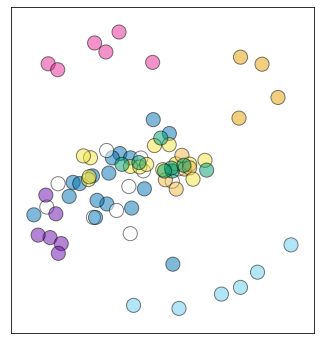
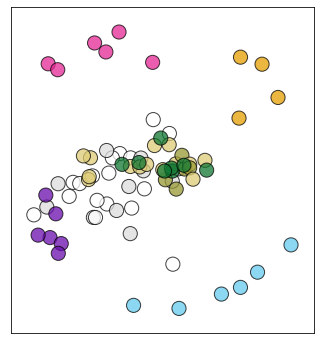
improve Altair interactive MDS plot

diff --git a/results/summary/mds_escape_profiles.md b/results/summary/mds_escape_profiles.md
@@ -314,15 +314,22 @@ for name, specs in mds_config.items():
     plt.show(fig)
     plt.close(fig)
     
-    # make Altair versions for one specific plot
-    if name != 'Moderna_HAARVI_mAbs':
+    # make Altair versions for one specific plot (hard-coded!)
+    if name != 'Moderna_HAARVI_mAbs_more_colors':
         continue
-    color_to_class = {'#000000': 'vaccine sera',
-                      '#66CCEE': 'class 3 antibody',
-                      '#6a0dad': 'class 2 antibody',
-                      '#E52794': 'class 1 antibody',
-                      '#E69F00': 'class 4 antibody',
-                      '#FFFFFF': 'convalescent plasma'}
+    #df.set_index('id').to_dict()
+    color_df = (pd.read_csv('./data/mds_colors_vax_conv.csv')
+                [['detailed_group', 'detailed_color']]
+                .drop_duplicates()
+               )
+    color_to_class = color_df.set_index('detailed_color')['detailed_group'].to_dict()
+    print(color_to_class)
+#     color_to_class = {'#000000': 'vaccine sera',
+#                       '#66CCEE': 'class 3 antibody',
+#                       '#6a0dad': 'class 2 antibody',
+#                       '#E52794': 'class 1 antibody',
+#                       '#E69F00': 'class 4 antibody',
+#                       '#FFFFFF': 'convalescent plasma'}
     class_to_color = {val: key for key, val in color_to_class.items()}
     alt_df = pd.DataFrame({'x': xs,
                            'y': ys,
@@ -350,9 +357,9 @@ for name, specs in mds_config.items():
                                 ),
                 tooltip=['antibody / sera', 'class'],
                 )
-        .mark_circle(size=100,
+        .mark_circle(size=200,
                      stroke='black',
-                     opacity=0.6,
+                     opacity=0.75,
                      )
         .properties(width=400,
                     height=400)
@@ -378,17 +385,31 @@ for name, specs in mds_config.items():
     
 
 
-    Saving interactive chart to results/multidimensional_scaling/Moderna_HAARVI_mAbs_mds.html
+    
+    Making plot Moderna_HAARVI_mAbs_more_colors, which has the following antibodies:
+    ['M01-day-119_80', 'M02-day-36_1250', 'M02-day-119_200', 'M03-day-119_200', 'M04-day-119_200', 'M05-day-36_500', 'M05-day-119_500', 'M06-day-119_80', 'M07-day-119_200', 'M08-day-36_1250', 'M08-day-119_200', 'M09-day-119_500', 'M10-day-36_500', 'M10-day-119_200', 'M11-day-119_200', 'M12-day-36_1250', 'M12-day-119_200', 'M13-day-119_200', 'M14-day-119_500', 'M16-day-119_1250', 'M17-day-119_200', 'M18-day-119_80', 'M19-day-119_200', 'M20-day-119_200', 'M21-day-119_200', 'M22-day-119_200', 'M23-day-119_200', '23_d21_1250', '23_d45_1250', '23_d120_500', '1C_d26_200', '1C_d113_200', '24C_d32_200', '24C_d104_200', '6C_d33_500', '6C_d76_500', '22C_d28_200', '22C_d104_200', '25C_d48_200', '25C_d115_80', '25_d18_500', '25_d94_200', '12C_d61_160', '12C_d152_80', '23C_d26_80', '23C_d102_80', '13_d15_200', '13_d121_1250', '7C_d29_500', '7C_d103_200', 'COV-021_500', 'COV-047_200', 'COV-057_50', 'COV-072_200', 'COV-107_80', 'CB6_400', 'LY-CoV555_400', 'REGN10933_400', 'REGN10987_400', 'CR3022_400', 'COV2-2677_400', 'COV2-2082_400', 'COV2-2094_400', 'COV2-2165_400', 'COV2-2832_400', 'COV2-2479_400', 'COV2-2050_400', 'COV2-2096_400', 'COV2-2499_400', 'C105_400', 'C144_400', 'C002_400', 'C121_400', 'C135_400', 'C110_400', 'COV2-2196_400', 'COV2-2130_400']
+    Using condition-level color scheme in column detailed_color of data/mds_colors_vax_conv.csv
+    Saving plot to results/multidimensional_scaling/Moderna_HAARVI_mAbs_more_colors_mds.pdf
+
+
+
+    
+![png](mds_escape_profiles_files/mds_escape_profiles_18_3.png)
+    
+
+
+    {'#DDCC77': 'vaccine serum (250ug day 119)', '#999933': 'vaccine serum (250ug day 36)', '#117733': 'vaccine serum (100ug day 119)', '#FFFFFF': 'convalescent plasma (day 30-60)', '#DDDDDD': 'convalescent plasma (day 100-150)', '#E52794': 'class 1 antibody', '#6a0dad': 'class 2 antibody', '#66CCEE': 'class 3 antibody', '#E69F00': 'class 4 antibody'}
+    Saving interactive chart to results/multidimensional_scaling/Moderna_HAARVI_mAbs_more_colors_mds.html
 
 
 
 
-<div id="altair-viz-215bc0b73fd94fcf8ceeb1de61f2f538"></div>
+<div id="altair-viz-3923bb73f19c414b9d7daf3a4b7712cb"></div>
 <script type="text/javascript">
   (function(spec, embedOpt){
     let outputDiv = document.currentScript.previousElementSibling;
-    if (outputDiv.id !== "altair-viz-215bc0b73fd94fcf8ceeb1de61f2f538") {
-      outputDiv = document.getElementById("altair-viz-215bc0b73fd94fcf8ceeb1de61f2f538");
+    if (outputDiv.id !== "altair-viz-3923bb73f19c414b9d7daf3a4b7712cb") {
+      outputDiv = document.getElementById("altair-viz-3923bb73f19c414b9d7daf3a4b7712cb");
     }
     const paths = {
       "vega": "https://cdn.jsdelivr.net/npm//vega@5?noext",
@@ -430,21 +451,8 @@ for name, specs in mds_config.items():
         .catch(showError)
         .then(() => displayChart(vegaEmbed));
     }
-  })({"config": {"view": {"continuousWidth": 400, "continuousHeight": 300, "stroke": "black", "strokeWidth": 1}}, "data": {"name": "data-ee61cd32dc635e6d5446525c4ff0e1f4"}, "mark": {"type": "circle", "opacity": 0.6, "size": 100, "stroke": "black"}, "encoding": {"color": {"type": "nominal", "field": "class", "scale": {"range": ["#E52794", "#6a0dad", "#66CCEE", "#E69F00", "#FFFFFF", "#000000"]}}, "tooltip": [{"type": "nominal", "field": "antibody / sera"}, {"type": "nominal", "field": "class"}], "x": {"type": "quantitative", "axis": {"grid": false, "labels": false, "ticks": false, "title": null}, "field": "x"}, "y": {"type": "quantitative", "axis": {"grid": false, "labels": false, "ticks": false, "title": null}, "field": "y"}}, "height": 400, "width": 400, "$schema": "https://vega.github.io/schema/vega-lite/v4.8.1.json", "datasets": {"data-ee61cd32dc635e6d5446525c4ff0e1f4": [{"x": -0.03986632910633704, "y": -0.2834240393389698, "antibody / sera": "subject H (day 152)", "class": "convalescent plasma"}, {"x": -0.03321102379001797, "y": -0.16142343536787238, "antibody / sera": "subject H (day 61)", "class": "convalescent plasma"}, {"x": 0.16066049598044355, "y": -0.03334249507451495, "antibody / sera": "subject J (day 121)", "class": "convalescent plasma"}, {"x": 0.14682897906393716, "y": 0.19440717161258741, "antibody / sera": "subject J (day 15)", "class": "convalescent plasma"}, {"x": -0.04665356006446851, "y": -0.05846997855766021, "antibody / sera": "subject B (day 113)", "class": "convalescent plasma"}, {"x": -0.22012230086862694, "y": -0.007991552874154836, "antibody / sera": "subject B (day 26)", "class": "convalescent plasma"}, {"x": -0.43808896810808695, "y": -0.1565237554388361, "antibody / sera": "subject E (day 104)", "class": "convalescent plasma"}, {"x": -0.15171604601964986, "y": -0.1418199843603223, "antibody / sera": "subject E (day 28)", "class": "convalescent plasma"}, {"x": -0.21576150782364661, "y": -0.20596969968026524, "antibody / sera": "subject I (day 102)", "class": "convalescent plasma"}, {"x": -0.20572250714497778, "y": -0.20635203240130465, "antibody / sera": "subject I (day 26)", "class": "convalescent plasma"}, {"x": 0.02298664610534081, "y": 0.016334926342672543, "antibody / sera": "subject A (day 120)", "class": "convalescent plasma"}, {"x": -0.08959821241546158, "y": 0.09855428481871517, "antibody / sera": "subject A (day 21)", "class": "convalescent plasma"}, {"x": -0.038431410392108574, "y": 0.07819630816084515, "antibody / sera": "subject A (day 45)", "class": "convalescent plasma"}, {"x": -0.3842211484022715, "y": -0.045241007071251824, "antibody / sera": "subject C (day 104)", "class": "convalescent plasma"}, {"x": -0.5000126170483079, "y": -0.19371728270933142, "antibody / sera": "subject C (day 32)", "class": "convalescent plasma"}, {"x": -0.1052379579987309, "y": -0.1728851448081848, "antibody / sera": "subject F (day 115)", "class": "convalescent plasma"}, {"x": -0.31270984620458114, "y": -0.0386782409172238, "antibody / sera": "subject F (day 48)", "class": "convalescent plasma"}, {"x": 0.16344775612841414, "y": -0.4292491762007971, "antibody / sera": "subject G (day 18)", "class": "convalescent plasma"}, {"x": 0.18889578786599467, "y": 0.025841264714497596, "antibody / sera": "subject G (day 94)", "class": "convalescent plasma"}, {"x": -0.12537194731691892, "y": 0.07812244057270182, "antibody / sera": "subject D (day 33)", "class": "convalescent plasma"}, {"x": 0.01086728110953954, "y": 0.07743845247711816, "antibody / sera": "subject D (day 76)", "class": "convalescent plasma"}, {"x": -0.1526773973461746, "y": 0.11334115739258477, "antibody / sera": "subject K (day 103)", "class": "convalescent plasma"}, {"x": 0.06982659296641441, "y": 0.2606990780111509, "antibody / sera": "subject K (day 29)", "class": "convalescent plasma"}, {"x": -0.3949862384246651, "y": -0.1889191815777102, "antibody / sera": "C002", "class": "class 2 antibody"}, {"x": -0.21011770256001705, "y": 0.6265589198872832, "antibody / sera": "C105", "class": "class 1 antibody"}, {"x": 0.19270768886087572, "y": -0.6403750084402929, "antibody / sera": "C110", "class": "class 3 antibody"}, {"x": -0.4226923511466742, "y": -0.3022764818902147, "antibody / sera": "C121", "class": "class 2 antibody"}, {"x": 0.7273476812584333, "y": -0.3370986084124763, "antibody / sera": "C135", "class": "class 3 antibody"}, {"x": -0.4428396134363275, "y": -0.09950580597360711, "antibody / sera": "C144", "class": "class 2 antibody"}, {"x": -0.15615304683503087, "y": 0.5836225673533794, "antibody / sera": "LY-CoV016", "class": "class 1 antibody"}, {"x": -0.1982695813105976, "y": -0.12466175198128877, "antibody / sera": "COV-021", "class": "convalescent plasma"}, {"x": -0.2812125248180074, "y": -0.04450911954202017, "antibody / sera": "COV-047", "class": "convalescent plasma"}, {"x": -0.33145731281693863, "y": -0.1056703811355667, "antibody / sera": "COV-057", "class": "convalescent plasma"}, {"x": -0.14205802788768632, "y": 0.005444728769084952, "antibody / sera": "COV-072", "class": "convalescent plasma"}, {"x": 0.027552795016735313, "y": -0.06955592330702681, "antibody / sera": "COV-107", "class": "convalescent plasma"}, {"x": -0.4797208070517162, "y": -0.2904860456707257, "antibody / sera": "COV2-2050", "class": "class 2 antibody"}, {"x": 0.4863057436200315, "y": 0.5588025548186991, "antibody / sera": "COV2-2082", "class": "class 4 antibody"}, {"x": 0.5891078987105037, "y": 0.5252331454884698, "antibody / sera": "COV2-2094", "class": "class 4 antibody"}, {"x": -0.024032702051660883, "y": -0.6257119250617433, "antibody / sera": "COV2-2096", "class": "class 3 antibody"}, {"x": 0.5675224218642329, "y": -0.46737462107926525, "antibody / sera": "COV2-2130", "class": "class 3 antibody"}, {"x": 0.06695123855575204, "y": 0.5339576863500118, "antibody / sera": "COV2-2165", "class": "class 1 antibody"}, {"x": -0.0934125828234101, "y": 0.678805399101716, "antibody / sera": "COV2-2196", "class": "class 1 antibody"}, {"x": -0.3692627267494232, "y": -0.3309452755171947, "antibody / sera": "COV2-2479", "class": "class 2 antibody"}, {"x": 0.3951811802110181, "y": -0.5718802303825791, "antibody / sera": "COV2-2499", "class": "class 3 antibody"}, {"x": 0.6653244939788463, "y": 0.3664479031204229, "antibody / sera": "COV2-2677", "class": "class 4 antibody"}, {"x": -0.4316294312679841, "y": 0.5271898018597563, "antibody / sera": "COV2-2832", "class": "class 1 antibody"}, {"x": 0.47917732233761423, "y": 0.2679053833724255, "antibody / sera": "CR3022", "class": "class 4 antibody"}, {"x": -0.383183969852771, "y": -0.37747144898455876, "antibody / sera": "LY-CoV555", "class": "class 2 antibody"}, {"x": -0.03898783125797423, "y": 0.03700593559858729, "antibody / sera": "M01 (day 119)", "class": "vaccine sera"}, {"x": 0.0056882534115529175, "y": 0.034827094661703355, "antibody / sera": "M02 (day 119)", "class": "vaccine sera"}, {"x": 0.1278257451247425, "y": -0.026389442739785926, "antibody / sera": "M02 (day 36)", "class": "vaccine sera"}, {"x": 0.14590631940634882, "y": 0.14099129474971472, "antibody / sera": "M03 (day 119)", "class": "vaccine sera"}, {"x": 0.17802589439196917, "y": 0.049594181110379165, "antibody / sera": "M04 (day 119)", "class": "vaccine sera"}, {"x": -0.22969643697359748, "y": 0.07868080809722389, "antibody / sera": "M05 (day 119)", "class": "vaccine sera"}, {"x": 0.21965054048717228, "y": 0.024931232318086135, "antibody / sera": "M05 (day 36)", "class": "vaccine sera"}, {"x": -0.26343253904849484, "y": 0.08756779979790569, "antibody / sera": "M06 (day 119)", "class": "vaccine sera"}, {"x": 0.038451712266843276, "y": 0.046949161629994296, "antibody / sera": "M07 (day 119)", "class": "vaccine sera"}, {"x": 0.0756785088629505, "y": 0.13696143865490612, "antibody / sera": "M08 (day 119)", "class": "vaccine sera"}, {"x": 0.206787931237728, "y": 0.09033083438268409, "antibody / sera": "M08 (day 36)", "class": "vaccine sera"}, {"x": 0.11527756498850589, "y": 0.02201171743427806, "antibody / sera": "M09 (day 119)", "class": "vaccine sera"}, {"x": -0.23918492378752623, "y": -0.025469933331090662, "antibody / sera": "M10 (day 119)", "class": "vaccine sera"}, {"x": 0.17951855963315708, "y": -0.07083029204565332, "antibody / sera": "M10 (day 36)", "class": "vaccine sera"}, {"x": -0.23564399762522567, "y": -0.011702133940489698, "antibody / sera": "M11 (day 119)", "class": "vaccine sera"}, {"x": 0.2440027496823892, "y": 0.04826422507407195, "antibody / sera": "M12 (day 119)", "class": "vaccine sera"}, {"x": 0.24363791517876673, "y": 0.03062392556612426, "antibody / sera": "M12 (day 36)", "class": "vaccine sera"}, {"x": 0.2595664347816777, "y": -0.023498034496547783, "antibody / sera": "M13 (day 119)", "class": "vaccine sera"}, {"x": 0.3167178957186622, "y": 0.06640037233796543, "antibody / sera": "M14 (day 119)", "class": "vaccine sera"}, {"x": 0.16079780713962233, "y": 0.015251477659026305, "antibody / sera": "M16 (day 119)", "class": "vaccine sera"}, {"x": 0.1563462602592982, "y": 0.029518086965779344, "antibody / sera": "M17 (day 119)", "class": "vaccine sera"}, {"x": 0.10573541772793354, "y": 0.1728030516603547, "antibody / sera": "M18 (day 119)", "class": "vaccine sera"}, {"x": 0.0014925411424666368, "y": 0.05585130776733478, "antibody / sera": "M19 (day 119)", "class": "vaccine sera"}, {"x": 0.12358427739357074, "y": 0.01524332625030942, "antibody / sera": "M20 (day 119)", "class": "vaccine sera"}, {"x": -0.07918665027961311, "y": 0.04718143692064929, "antibody / sera": "M21 (day 119)", "class": "vaccine sera"}, {"x": 0.32475096225396033, "y": 0.019668579588131393, "antibody / sera": "M22 (day 119)", "class": "vaccine sera"}, {"x": 0.2162873346093145, "y": 0.04295446326456448, "antibody / sera": "M23 (day 119)", "class": "vaccine sera"}, {"x": -0.38600654391862055, "y": 0.49888448445308686, "antibody / sera": "REGN10933", "class": "class 1 antibody"}, {"x": 0.48614769264156815, "y": -0.5399799398564556, "antibody / sera": "REGN10987", "class": "class 3 antibody"}]}}, {"mode": "vega-lite"});
+  })({"config": {"view": {"continuousWidth": 400, "continuousHeight": 300, "stroke": "black", "strokeWidth": 1}}, "data": {"name": "data-8059f8dc47fdabdf30dfcf4fdcfe9789"}, "mark": {"type": "circle", "opacity": 0.75, "size": 200, "stroke": "black"}, "encoding": {"color": {"type": "nominal", "field": "class", "scale": {"range": ["#E52794", "#6a0dad", "#66CCEE", "#E69F00", "#DDDDDD", "#FFFFFF", "#117733", "#DDCC77", "#999933"]}}, "tooltip": [{"type": "nominal", "field": "antibody / sera"}, {"type": "nominal", "field": "class"}], "x": {"type": "quantitative", "axis": {"grid": false, "labels": false, "ticks": false, "title": null}, "field": "x"}, "y": {"type": "quantitative", "axis": {"grid": false, "labels": false, "ticks": false, "title": null}, "field": "y"}}, "height": 400, "width": 400, "$schema": "https://vega.github.io/schema/vega-lite/v4.8.1.json", "datasets": {"data-8059f8dc47fdabdf30dfcf4fdcfe9789": [{"x": -0.03986632910633704, "y": -0.2834240393389698, "antibody / sera": "subject H (day 152)", "class": "convalescent plasma (day 100-150)"}, {"x": -0.03321102379001797, "y": -0.16142343536787238, "antibody / sera": "subject H (day 61)", "class": "convalescent plasma (day 30-60)"}, {"x": 0.16066049598044355, "y": -0.03334249507451495, "antibody / sera": "subject J (day 121)", "class": "convalescent plasma (day 100-150)"}, {"x": 0.14682897906393716, "y": 0.19440717161258741, "antibody / sera": "subject J (day 15)", "class": "convalescent plasma (day 30-60)"}, {"x": -0.04665356006446851, "y": -0.05846997855766021, "antibody / sera": "subject B (day 113)", "class": "convalescent plasma (day 100-150)"}, {"x": -0.22012230086862694, "y": -0.007991552874154836, "antibody / sera": "subject B (day 26)", "class": "convalescent plasma (day 30-60)"}, {"x": -0.43808896810808695, "y": -0.1565237554388361, "antibody / sera": "subject E (day 104)", "class": "convalescent plasma (day 100-150)"}, {"x": -0.15171604601964986, "y": -0.1418199843603223, "antibody / sera": "subject E (day 28)", "class": "convalescent plasma (day 30-60)"}, {"x": -0.21576150782364661, "y": -0.20596969968026524, "antibody / sera": "subject I (day 102)", "class": "convalescent plasma (day 100-150)"}, {"x": -0.20572250714497778, "y": -0.20635203240130465, "antibody / sera": "subject I (day 26)", "class": "convalescent plasma (day 30-60)"}, {"x": 0.02298664610534081, "y": 0.016334926342672543, "antibody / sera": "subject A (day 120)", "class": "convalescent plasma (day 100-150)"}, {"x": -0.08959821241546158, "y": 0.09855428481871517, "antibody / sera": "subject A (day 21)", "class": "convalescent plasma (day 30-60)"}, {"x": -0.038431410392108574, "y": 0.07819630816084515, "antibody / sera": "subject A (day 45)", "class": "convalescent plasma (day 30-60)"}, {"x": -0.3842211484022715, "y": -0.045241007071251824, "antibody / sera": "subject C (day 104)", "class": "convalescent plasma (day 100-150)"}, {"x": -0.5000126170483079, "y": -0.19371728270933142, "antibody / sera": "subject C (day 32)", "class": "convalescent plasma (day 30-60)"}, {"x": -0.1052379579987309, "y": -0.1728851448081848, "antibody / sera": "subject F (day 115)", "class": "convalescent plasma (day 100-150)"}, {"x": -0.31270984620458114, "y": -0.0386782409172238, "antibody / sera": "subject F (day 48)", "class": "convalescent plasma (day 30-60)"}, {"x": 0.16344775612841414, "y": -0.4292491762007971, "antibody / sera": "subject G (day 18)", "class": "convalescent plasma (day 30-60)"}, {"x": 0.18889578786599467, "y": 0.025841264714497596, "antibody / sera": "subject G (day 94)", "class": "convalescent plasma (day 100-150)"}, {"x": -0.12537194731691892, "y": 0.07812244057270182, "antibody / sera": "subject D (day 33)", "class": "convalescent plasma (day 30-60)"}, {"x": 0.01086728110953954, "y": 0.07743845247711816, "antibody / sera": "subject D (day 76)", "class": "convalescent plasma (day 100-150)"}, {"x": -0.1526773973461746, "y": 0.11334115739258477, "antibody / sera": "subject K (day 103)", "class": "convalescent plasma (day 100-150)"}, {"x": 0.06982659296641441, "y": 0.2606990780111509, "antibody / sera": "subject K (day 29)", "class": "convalescent plasma (day 30-60)"}, {"x": -0.3949862384246651, "y": -0.1889191815777102, "antibody / sera": "C002", "class": "class 2 antibody"}, {"x": -0.21011770256001705, "y": 0.6265589198872832, "antibody / sera": "C105", "class": "class 1 antibody"}, {"x": 0.19270768886087572, "y": -0.6403750084402929, "antibody / sera": "C110", "class": "class 3 antibody"}, {"x": -0.4226923511466742, "y": -0.3022764818902147, "antibody / sera": "C121", "class": "class 2 antibody"}, {"x": 0.7273476812584333, "y": -0.3370986084124763, "antibody / sera": "C135", "class": "class 3 antibody"}, {"x": -0.4428396134363275, "y": -0.09950580597360711, "antibody / sera": "C144", "class": "class 2 antibody"}, {"x": -0.15615304683503087, "y": 0.5836225673533794, "antibody / sera": "LY-CoV016", "class": "class 1 antibody"}, {"x": -0.1982695813105976, "y": -0.12466175198128877, "antibody / sera": "COV-021", "class": "convalescent plasma (day 30-60)"}, {"x": -0.2812125248180074, "y": -0.04450911954202017, "antibody / sera": "COV-047", "class": "convalescent plasma (day 30-60)"}, {"x": -0.33145731281693863, "y": -0.1056703811355667, "antibody / sera": "COV-057", "class": "convalescent plasma (day 30-60)"}, {"x": -0.14205802788768632, "y": 0.005444728769084952, "antibody / sera": "COV-072", "class": "convalescent plasma (day 30-60)"}, {"x": 0.027552795016735313, "y": -0.06955592330702681, "antibody / sera": "COV-107", "class": "convalescent plasma (day 30-60)"}, {"x": -0.4797208070517162, "y": -0.2904860456707257, "antibody / sera": "COV2-2050", "class": "class 2 antibody"}, {"x": 0.4863057436200315, "y": 0.5588025548186991, "antibody / sera": "COV2-2082", "class": "class 4 antibody"}, {"x": 0.5891078987105037, "y": 0.5252331454884698, "antibody / sera": "COV2-2094", "class": "class 4 antibody"}, {"x": -0.024032702051660883, "y": -0.6257119250617433, "antibody / sera": "COV2-2096", "class": "class 3 antibody"}, {"x": 0.5675224218642329, "y": -0.46737462107926525, "antibody / sera": "COV2-2130", "class": "class 3 antibody"}, {"x": 0.06695123855575204, "y": 0.5339576863500118, "antibody / sera": "COV2-2165", "class": "class 1 antibody"}, {"x": -0.0934125828234101, "y": 0.678805399101716, "antibody / sera": "COV2-2196", "class": "class 1 antibody"}, {"x": -0.3692627267494232, "y": -0.3309452755171947, "antibody / sera": "COV2-2479", "class": "class 2 antibody"}, {"x": 0.3951811802110181, "y": -0.5718802303825791, "antibody / sera": "COV2-2499", "class": "class 3 antibody"}, {"x": 0.6653244939788463, "y": 0.3664479031204229, "antibody / sera": "COV2-2677", "class": "class 4 antibody"}, {"x": -0.4316294312679841, "y": 0.5271898018597563, "antibody / sera": "COV2-2832", "class": "class 1 antibody"}, {"x": 0.47917732233761423, "y": 0.2679053833724255, "antibody / sera": "CR3022", "class": "class 4 antibody"}, {"x": -0.383183969852771, "y": -0.37747144898455876, "antibody / sera": "LY-CoV555", "class": "class 2 antibody"}, {"x": -0.03898783125797423, "y": 0.03700593559858729, "antibody / sera": "M01 (day 119)", "class": "vaccine serum (250ug day 119)"}, {"x": 0.0056882534115529175, "y": 0.034827094661703355, "antibody / sera": "M02 (day 119)", "class": "vaccine serum (250ug day 119)"}, {"x": 0.1278257451247425, "y": -0.026389442739785926, "antibody / sera": "M02 (day 36)", "class": "vaccine serum (250ug day 36)"}, {"x": 0.14590631940634882, "y": 0.14099129474971472, "antibody / sera": "M03 (day 119)", "class": "vaccine serum (250ug day 119)"}, {"x": 0.17802589439196917, "y": 0.049594181110379165, "antibody / sera": "M04 (day 119)", "class": "vaccine serum (250ug day 119)"}, {"x": -0.22969643697359748, "y": 0.07868080809722389, "antibody / sera": "M05 (day 119)", "class": "vaccine serum (250ug day 119)"}, {"x": 0.21965054048717228, "y": 0.024931232318086135, "antibody / sera": "M05 (day 36)", "class": "vaccine serum (250ug day 36)"}, {"x": -0.26343253904849484, "y": 0.08756779979790569, "antibody / sera": "M06 (day 119)", "class": "vaccine serum (250ug day 119)"}, {"x": 0.038451712266843276, "y": 0.046949161629994296, "antibody / sera": "M07 (day 119)", "class": "vaccine serum (250ug day 119)"}, {"x": 0.0756785088629505, "y": 0.13696143865490612, "antibody / sera": "M08 (day 119)", "class": "vaccine serum (250ug day 119)"}, {"x": 0.206787931237728, "y": 0.09033083438268409, "antibody / sera": "M08 (day 36)", "class": "vaccine serum (250ug day 36)"}, {"x": 0.11527756498850589, "y": 0.02201171743427806, "antibody / sera": "M09 (day 119)", "class": "vaccine serum (250ug day 119)"}, {"x": -0.23918492378752623, "y": -0.025469933331090662, "antibody / sera": "M10 (day 119)", "class": "vaccine serum (250ug day 119)"}, {"x": 0.17951855963315708, "y": -0.07083029204565332, "antibody / sera": "M10 (day 36)", "class": "vaccine serum (250ug day 36)"}, {"x": -0.23564399762522567, "y": -0.011702133940489698, "antibody / sera": "M11 (day 119)", "class": "vaccine serum (250ug day 119)"}, {"x": 0.2440027496823892, "y": 0.04826422507407195, "antibody / sera": "M12 (day 119)", "class": "vaccine serum (250ug day 119)"}, {"x": 0.24363791517876673, "y": 0.03062392556612426, "antibody / sera": "M12 (day 36)", "class": "vaccine serum (250ug day 36)"}, {"x": 0.2595664347816777, "y": -0.023498034496547783, "antibody / sera": "M13 (day 119)", "class": "vaccine serum (250ug day 119)"}, {"x": 0.3167178957186622, "y": 0.06640037233796543, "antibody / sera": "M14 (day 119)", "class": "vaccine serum (250ug day 119)"}, {"x": 0.16079780713962233, "y": 0.015251477659026305, "antibody / sera": "M16 (day 119)", "class": "vaccine serum (100ug day 119)"}, {"x": 0.1563462602592982, "y": 0.029518086965779344, "antibody / sera": "M17 (day 119)", "class": "vaccine serum (100ug day 119)"}, {"x": 0.10573541772793354, "y": 0.1728030516603547, "antibody / sera": "M18 (day 119)", "class": "vaccine serum (100ug day 119)"}, {"x": 0.0014925411424666368, "y": 0.05585130776733478, "antibody / sera": "M19 (day 119)", "class": "vaccine serum (100ug day 119)"}, {"x": 0.12358427739357074, "y": 0.01524332625030942, "antibody / sera": "M20 (day 119)", "class": "vaccine serum (100ug day 119)"}, {"x": -0.07918665027961311, "y": 0.04718143692064929, "antibody / sera": "M21 (day 119)", "class": "vaccine serum (100ug day 119)"}, {"x": 0.32475096225396033, "y": 0.019668579588131393, "antibody / sera": "M22 (day 119)", "class": "vaccine serum (100ug day 119)"}, {"x": 0.2162873346093145, "y": 0.04295446326456448, "antibody / sera": "M23 (day 119)", "class": "vaccine serum (100ug day 119)"}, {"x": -0.38600654391862055, "y": 0.49888448445308686, "antibody / sera": "REGN10933", "class": "class 1 antibody"}, {"x": 0.48614769264156815, "y": -0.5399799398564556, "antibody / sera": "REGN10987", "class": "class 3 antibody"}]}}, {"mode": "vega-lite"});
 </script>
-
-
-    
-    Making plot Moderna_HAARVI_mAbs_more_colors, which has the following antibodies:
-    ['M01-day-119_80', 'M02-day-36_1250', 'M02-day-119_200', 'M03-day-119_200', 'M04-day-119_200', 'M05-day-36_500', 'M05-day-119_500', 'M06-day-119_80', 'M07-day-119_200', 'M08-day-36_1250', 'M08-day-119_200', 'M09-day-119_500', 'M10-day-36_500', 'M10-day-119_200', 'M11-day-119_200', 'M12-day-36_1250', 'M12-day-119_200', 'M13-day-119_200', 'M14-day-119_500', 'M16-day-119_1250', 'M17-day-119_200', 'M18-day-119_80', 'M19-day-119_200', 'M20-day-119_200', 'M21-day-119_200', 'M22-day-119_200', 'M23-day-119_200', '23_d21_1250', '23_d45_1250', '23_d120_500', '1C_d26_200', '1C_d113_200', '24C_d32_200', '24C_d104_200', '6C_d33_500', '6C_d76_500', '22C_d28_200', '22C_d104_200', '25C_d48_200', '25C_d115_80', '25_d18_500', '25_d94_200', '12C_d61_160', '12C_d152_80', '23C_d26_80', '23C_d102_80', '13_d15_200', '13_d121_1250', '7C_d29_500', '7C_d103_200', 'COV-021_500', 'COV-047_200', 'COV-057_50', 'COV-072_200', 'COV-107_80', 'CB6_400', 'LY-CoV555_400', 'REGN10933_400', 'REGN10987_400', 'CR3022_400', 'COV2-2677_400', 'COV2-2082_400', 'COV2-2094_400', 'COV2-2165_400', 'COV2-2832_400', 'COV2-2479_400', 'COV2-2050_400', 'COV2-2096_400', 'COV2-2499_400', 'C105_400', 'C144_400', 'C002_400', 'C121_400', 'C135_400', 'C110_400', 'COV2-2196_400', 'COV2-2130_400']
-    Using condition-level color scheme in column timepoints of data/mds_colors_vax_conv.csv
-    Saving plot to results/multidimensional_scaling/Moderna_HAARVI_mAbs_more_colors_mds.pdf
-
-
-
-    
-![png](mds_escape_profiles_files/mds_escape_profiles_18_5.png)
-    
 
 
     
